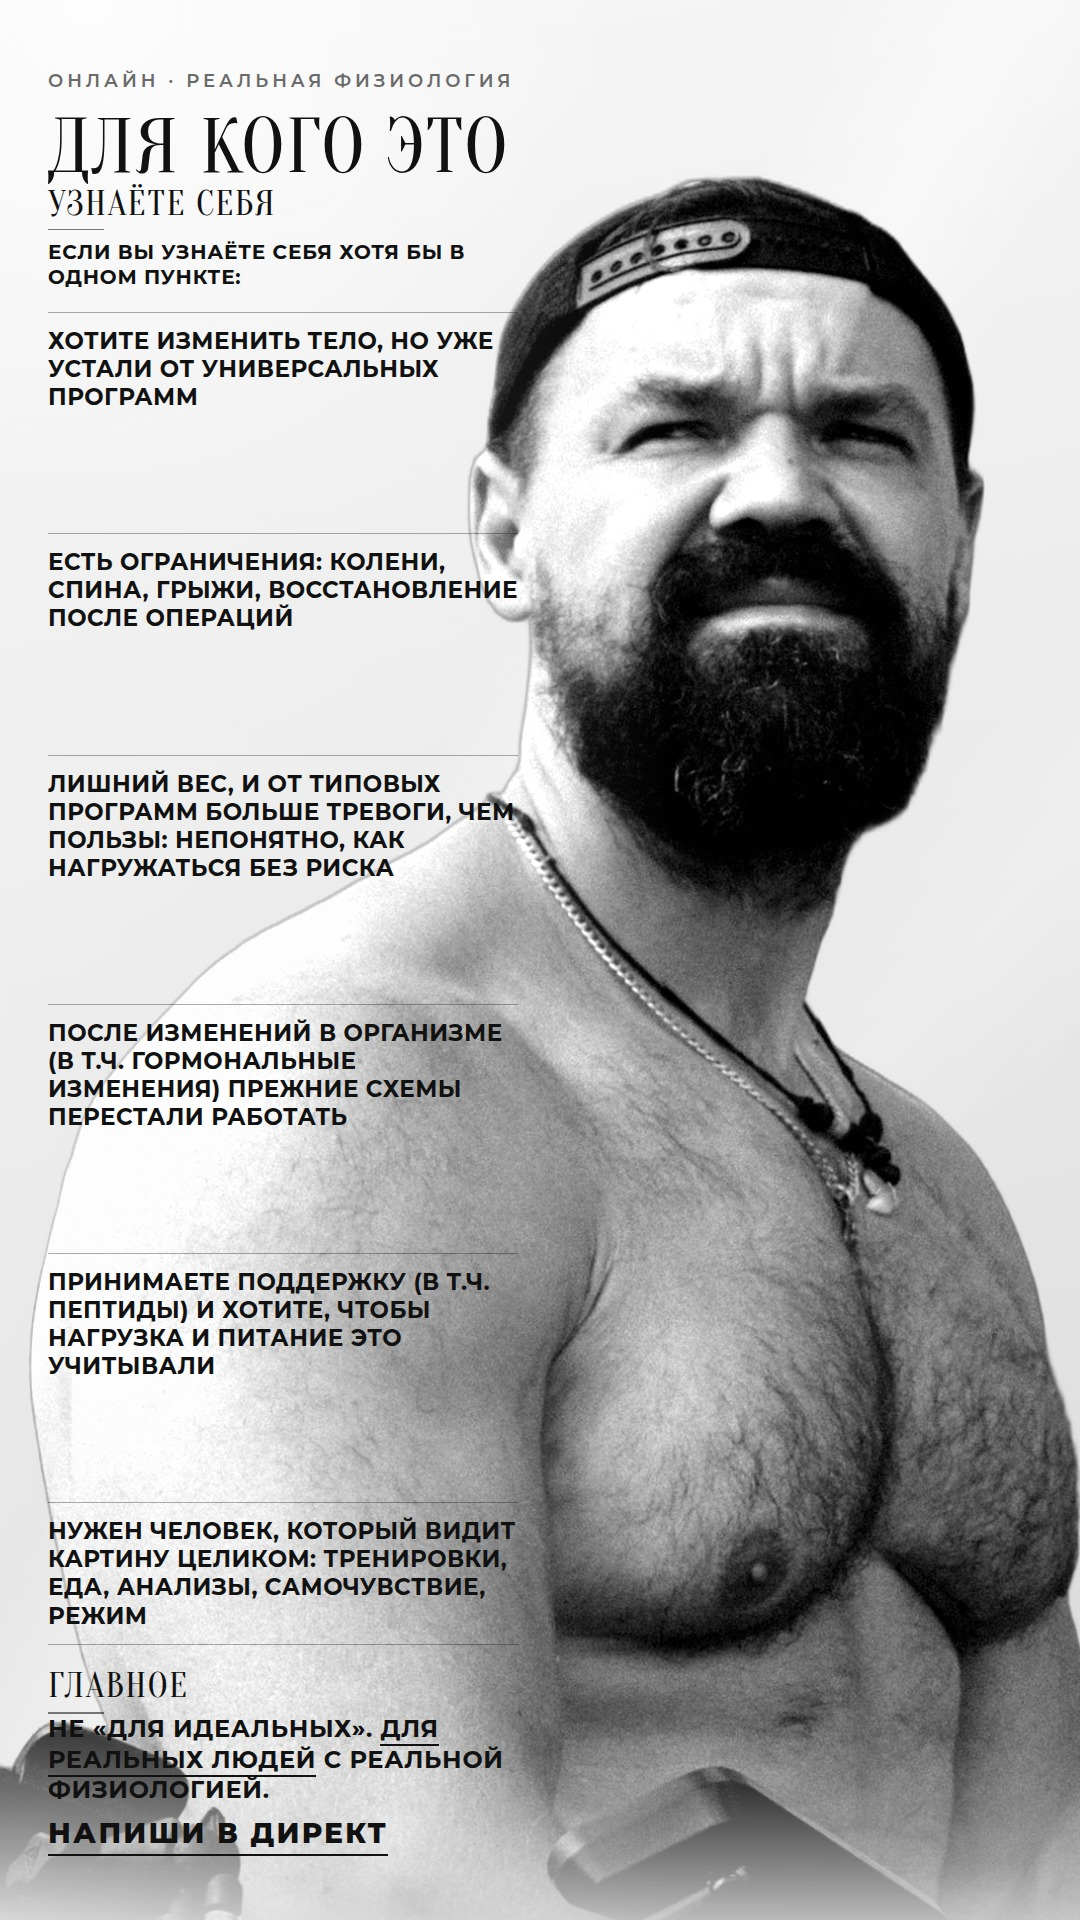
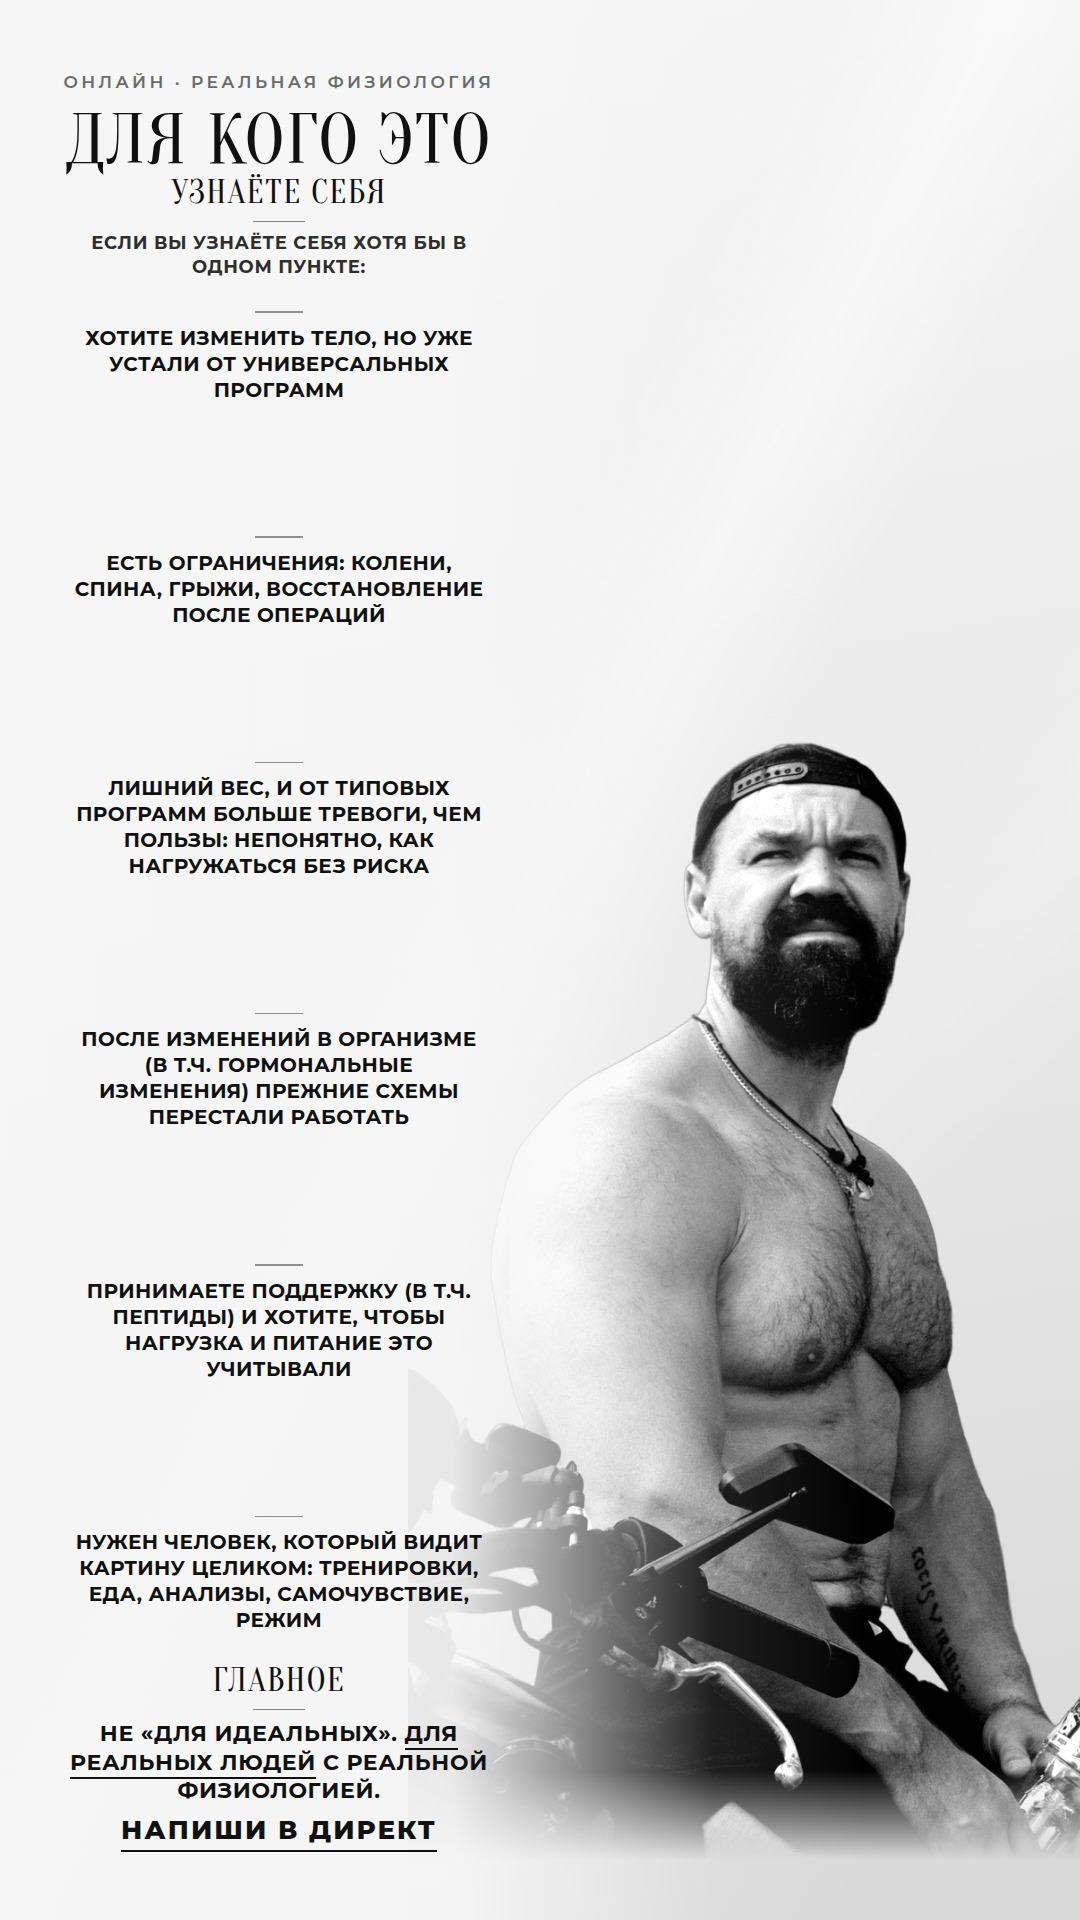
Keep Artur with bike; center readable list block
Restore motorcycle in the B&W cutout, scale like the woman reference
on the right, and keep the list centered on a clear light left column
with short dividers and proper margins for readability.

diff --git a/stories/dlya-kogo.html b/stories/dlya-kogo.html
@@ -7,17 +7,16 @@
   <link rel="stylesheet" href="fonts/fonts-ref.css" />
   <style>
     /*
-      Композиция как референс с девушкой:
-      — левая колонка ~48%: крупный чистый текст на светлом фоне, по всей высоте
-      — правая половина: Артур-герой во всю высоту (по пояс/грудь)
-      — БЕЗ плашек, рамок, обводок, подложек
-      — от тарифа только шрифты/размеры: Oranienbaum + Montserrat
+      Как референс с девушкой:
+      — Артур с байком справа, масштаб ~как девушка (правый нижний/средний план)
+      — текст слева на светлом фоне, без плашек; блок 2 отцентрован
+      — отступы соблюдены: текст не заходит на тёмный силуэт
     */
     :root {
       --ink: #111111;
-      --muted: #333333;
+      --muted: #2E2E2E;
       --soft: #6A6A6A;
-      --line: rgba(17, 17, 17, 0.35);
+      --line: rgba(17, 17, 17, 0.28);
       --bg-hi: #F6F6F6;
       --bg: #EAEAEA;
       --bg-lo: #D8D8D8;
@@ -41,26 +40,26 @@
       font-family: "Montserrat", sans-serif;
       text-transform: uppercase;
       background:
-        linear-gradient(118deg, transparent 0%, transparent 40%, rgba(255,255,255,0.5) 48%, transparent 56%),
-        linear-gradient(132deg, transparent 0%, transparent 58%, rgba(255,255,255,0.22) 65%, transparent 72%),
+        linear-gradient(118deg, transparent 0%, transparent 40%, rgba(255,255,255,0.48) 48%, transparent 56%),
+        linear-gradient(132deg, transparent 0%, transparent 58%, rgba(255,255,255,0.2) 65%, transparent 72%),
         radial-gradient(ellipse 90% 50% at 8% 0%, #FFFFFF 0%, transparent 55%),
         linear-gradient(170deg, var(--bg-hi) 0%, var(--bg) 48%, var(--bg-lo) 100%);
     }
 
-    /* Артур — крупный герой справа, 50–60% ширины, во всю высоту */
+    /* Артур с байком — правая половина, масштаб как девушка на референсе */
     .photo {
       position: absolute;
-      right: -100px;
-      bottom: -30px;
-      height: 1780px;
+      right: -90px;
+      bottom: 60px;
+      height: 1120px;
       width: auto;
       z-index: 1;
       pointer-events: none;
       user-select: none;
-      filter: contrast(1.05) brightness(1.12);
+      filter: contrast(1.05) brightness(1.1);
     }
 
-    /* лёгкая вуаль только слева для читаемости — не подложка под текст */
+    /* сильная светлая зона слева — блок 2 читается, не размазывается по фото */
     .veil {
       position: absolute;
       inset: 0;
@@ -68,44 +67,55 @@
       pointer-events: none;
       background: linear-gradient(
         90deg,
-        rgba(246,246,246,0.28) 0%,
-        rgba(246,246,246,0.10) 42%,
-        transparent 62%
+        rgba(246,246,246,0.97) 0%,
+        rgba(246,246,246,0.94) 42%,
+        rgba(246,246,246,0.55) 54%,
+        rgba(246,246,246,0.12) 66%,
+        transparent 80%
       );
     }
 
-    /* левая колонка 45–50%, равномерно по высоте */
     .col {
       position: relative;
       z-index: 3;
-      width: 520px;
+      width: 470px;
       height: 100%;
-      padding: 70px 0 64px 48px;
+      margin-left: 56px;
+      padding: 72px 24px 68px 0;
       display: flex;
       flex-direction: column;
       justify-content: space-between;
+      align-items: center;
+      text-align: center;
     }
 
     .eyebrow {
-      font-size: 18px;
+      font-size: 17px;
       font-weight: 600;
-      letter-spacing: 0.22em;
+      letter-spacing: 0.2em;
       color: var(--soft);
+      width: 100%;
     }
 
     .title {
       font-family: "Oranienbaum", "Playfair Display", serif;
       font-weight: 400;
-      font-size: 78px;
+      font-size: 72px;
       line-height: 0.96;
       letter-spacing: 0.02em;
       color: var(--ink);
-      margin-top: 18px;
+      margin-top: 14px;
+      width: 100%;
+    }
+
+    .intro {
+      width: 100%;
+      padding: 0 12px;
     }
 
     .block-label {
       font-family: "Oranienbaum", "Playfair Display", serif;
-      font-size: 36px;
+      font-size: 34px;
       font-weight: 400;
       letter-spacing: 0.04em;
       line-height: 1.05;
@@ -114,58 +124,74 @@
 
     .block-lead {
       margin-top: 10px;
-      font-size: 20px;
+      font-size: 18px;
       font-weight: 700;
       letter-spacing: 0.04em;
-      line-height: 1.25;
-      color: var(--ink);
-      max-width: 460px;
+      line-height: 1.3;
+      color: var(--muted);
     }
 
     .rule {
-      width: 56px;
+      width: 52px;
       height: 1.5px;
       background: var(--ink);
-      opacity: 0.55;
-      margin: 6px 0 0;
+      opacity: 0.5;
+      margin: 10px auto 0;
     }
 
+    /* Блок 2 — по центру колонки, отступы, читаемый */
     .list {
       display: flex;
       flex-direction: column;
       justify-content: space-between;
       flex: 1;
       min-height: 0;
-      margin: 22px 0;
-      gap: 0;
+      width: 100%;
+      margin: 16px 0;
+      padding: 0 8px;
     }
 
     .item {
-      font-size: 23px;
+      font-size: 20px;
       font-weight: 700;
       letter-spacing: 0.02em;
-      line-height: 1.22;
+      line-height: 1.3;
       color: var(--ink);
-      max-width: 470px;
-      padding: 14px 0;
-      border-top: 1px solid var(--line);
+      padding: 16px 8px 14px;
+      width: 100%;
+      position: relative;
+    }
+
+    .item::before {
+      content: "";
+      display: block;
+      width: 48px;
+      height: 1.5px;
+      background: var(--ink);
+      opacity: 0.45;
+      margin: 0 auto 12px;
     }
 
     .item:last-child {
-      border-bottom: 1px solid var(--line);
+      border-bottom: none;
+    }
+
+    .finale {
+      width: 100%;
+      padding: 0 12px;
     }
 
     .finale .block-label {
-      margin-bottom: 8px;
+      margin-bottom: 4px;
     }
 
     .finale p {
-      font-size: 24px;
+      margin-top: 10px;
+      font-size: 22px;
       font-weight: 700;
       letter-spacing: 0.03em;
-      line-height: 1.28;
+      line-height: 1.3;
       color: var(--ink);
-      max-width: 470px;
     }
 
     .finale p .em {
@@ -174,14 +200,13 @@
     }
 
     .cta {
-      font-size: 28px;
+      font-size: 26px;
       font-weight: 800;
       letter-spacing: 0.08em;
       color: var(--ink);
-      align-self: flex-start;
       border-bottom: 2px solid var(--ink);
       padding-bottom: 4px;
-      margin-top: 10px;
+      margin-top: 8px;
     }
   </style>
 </head>
@@ -196,7 +221,7 @@
         <h1 class="title">Для кого это</h1>
       </header>
 
-      <section>
+      <section class="intro">
         <div class="block-label">Узнаёте себя</div>
         <div class="rule"></div>
         <p class="block-lead">Если вы узнаёте себя хотя бы в одном пункте:</p>
